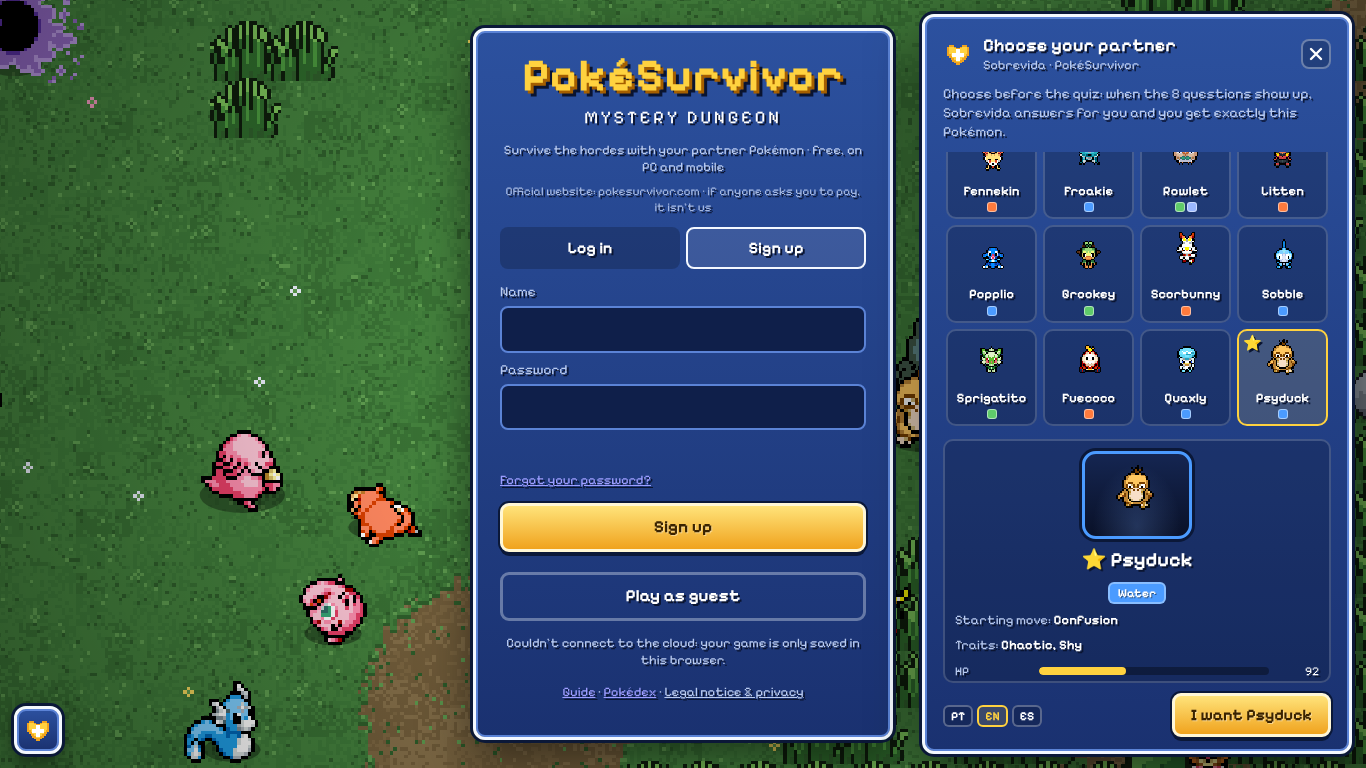
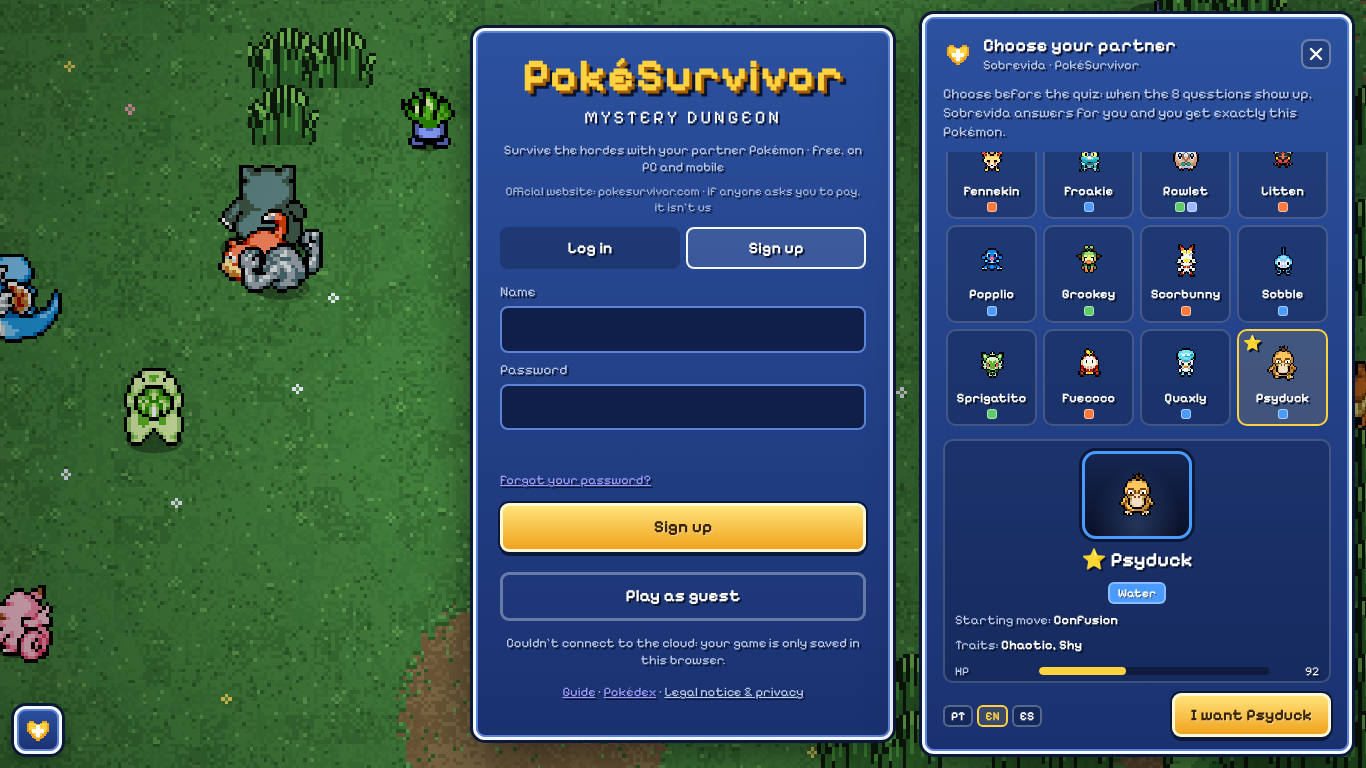
v0.2.3: farm fights bosses at the active move's range, keeps the partner until 100%, big sprites fit, farm bar top-right

diff --git a/extension/src/i18n.js b/extension/src/i18n.js
@@ -39,7 +39,7 @@ globalThis.SV_I18N = (() => {
         ['Escolha o parceiro antes', 'Na tela de criar conta (ou ao jogar como convidado), o menu da Sobrevida abre com os 29 parceiros. Clique no que você quer: o ⭐ marca o melhor.'],
         ['O teste se responde sozinho', 'Quando as 8 perguntas aparecerem, a Sobrevida clica as respostas que dão o seu Pokémon e confirma. Se o jogo sortear outro, ela usa o "Escolher outro".'],
         ['Botão Sobrevida', 'O botão de coração no canto abre o menu (ou Alt+S). Dá para arrastar. No rodapé: relatar bug, procurar atualização e idioma (PT · EN · ES).'],
-        ['Farm automático', 'No menu (coração), "Ligar farm" (ou Alt+F) faz ele jogar sozinho em loop: desvia, escolhe cartas, entra em fenda e, entre as partidas, recolhe missões, tira gacha, troca para o melhor parceiro que ainda não está 100% e compra as melhorias dele. Nada vai para o ranking. Deixe a aba à vista: escondida, o jogo para.'],
+        ['Farm automático', 'No menu (coração), "Ligar farm" (ou Alt+F) faz ele jogar sozinho em loop: desvia, escolhe cartas, entra em fenda e, entre as partidas, recolhe missões, tira gacha, compra as melhorias do parceiro até 100% e só então troca para o mais forte que você tem. Nada vai para o ranking. Deixe a aba à vista: escondida, o jogo para.'],
       ],
       newsTitle: (v) => `Novidades da v${v}`,
       updTitle: (v) => `Nova versão v${v}`, urgKick: 'URGENTE', urgTitle: (v) => `Atualize para a v${v}`,
@@ -60,10 +60,10 @@ globalThis.SV_I18N = (() => {
         userPaused: 'Você pausou o jogo: despause para o farm continuar.', menu: 'No menu, começando…', lv: 'Nv',
         guest: 'Jogando como convidado: nada é salvo.',
         task: { missions: 'Recolhendo prêmios de missões', gacha: 'Tirando gacha', partner: 'Escolhendo o parceiro', upgrades: 'Comprando melhorias', skins: 'Comprando skins de Halloween', save: 'Guardando na nuvem', play: 'Começando partida' },
-        mode: { kite: 'Puxando a horda', orbs: 'Pegando experiência', dodge: 'Desviando', chest: 'Abrindo baú', rift: 'Indo para a fenda', thiefGold: 'Perseguindo o Gholdengo', thief: 'Perseguindo o Meowth', lost: 'Resgatando o Pokémon perdido', escort: 'Levando o perdido', altar: 'Pegando poder do altar', spring: 'Curando no manancial', los: 'Buscando ângulo de tiro', hunt: 'Procurando inimigos', judgeDodge: 'Sentença: desviando', judgeLoop: 'Sentença: circulando', arenaDodge: 'Fenda: desviando', arenaBoss: 'Fenda: lutando com o lendário', idle: 'Andando', breakout: 'Rompendo o cerco' },
+        mode: { bossFight: 'Atacando o chefe', kite: 'Puxando a horda', orbs: 'Pegando experiência', dodge: 'Desviando', chest: 'Abrindo baú', rift: 'Indo para a fenda', thiefGold: 'Perseguindo o Gholdengo', thief: 'Perseguindo o Meowth', lost: 'Resgatando o Pokémon perdido', escort: 'Levando o perdido', altar: 'Pegando poder do altar', spring: 'Curando no manancial', los: 'Buscando ângulo de tiro', hunt: 'Procurando inimigos', judgeDodge: 'Sentença: desviando', judgeLoop: 'Sentença: circulando', arenaDodge: 'Fenda: desviando', arenaBoss: 'Fenda: lutando com o lendário', idle: 'Andando', breakout: 'Rompendo o cerco' },
         prog: (h, t, pc) => `Melhorias ${h}/${t} (${pc}%)`, col: (o, m) => `Coleção: ${o} Pokémon · ${m} em 100%`,
         sess: (r, c, ch, t, b) => `Sessão: ${r} partidas · +${c} moedas (${ch}/h) · +${t} tickets · melhor ${b}`, candy: (n) => `+${n} doces`,
-        opts: 'Opções', opt: { upgrades: 'Comprar melhorias do parceiro', gacha: 'Tirar gacha com os tickets', partner: 'Trocar de parceiro: o melhor que ainda não está 100%', missions: 'Recolher prêmios de missões', skins: 'Halloween: comprar as skins de bruxa' },
+        opts: 'Opções', opt: { upgrades: 'Comprar melhorias do parceiro', gacha: 'Tirar gacha com os tickets', partner: 'Trocar de parceiro só quando o atual chegar a 100% (vai para o mais forte)', missions: 'Recolher prêmios de missões', skins: 'Halloween: comprar as skins de bruxa' },
         rank: 'As partidas do farm não vão para o ranking.', spooky: 'Noite Espectral',
         aRun: (t, lv, c, tk) => `Partida: ${t} · Nv ${lv} · +${c} moedas · +${tk} tickets`, aMissions: (n) => `Recolheu ${n} prêmio(s) de missão`,
         aGacha: (g, n, nn, sh, nv) => `Gacha ${g} ×${n}: ${nn} novo(s)${sh ? ` · ${sh} shiny` : ''}${nv ? ` (${nv})` : ''}`,
@@ -103,7 +103,7 @@ globalThis.SV_I18N = (() => {
         ['Choose your partner first', 'On the create-account screen (or when you play as a guest), the Sobrevida menu opens with the 29 partners. Click the one you want: ⭐ marks the best.'],
         ['The quiz answers itself', 'When the 8 questions show up, Sobrevida clicks the answers that give your Pokémon and confirms. If the game rolls another one, it uses "Choose another".'],
         ['Sobrevida button', 'The heart button in the corner opens the menu (or Alt+S). You can drag it. In the footer: report a bug, check for updates and language (PT · EN · ES).'],
-        ['Auto farm', 'In the menu (heart), "Start farm" (or Alt+F) makes it play by itself in a loop: it dodges, picks cards, enters rifts and, between runs, claims missions, pulls gacha, switches to the best partner not at 100% yet and buys its upgrades. Nothing goes to the leaderboard. Keep the tab visible: hidden, the game stops.'],
+        ['Auto farm', 'In the menu (heart), "Start farm" (or Alt+F) makes it play by itself in a loop: it dodges, picks cards, enters rifts and, between runs, claims missions, pulls gacha, buys your partner\'s upgrades up to 100% and only then switches to the strongest one you own. Nothing goes to the leaderboard. Keep the tab visible: hidden, the game stops.'],
       ],
       newsTitle: (v) => `What's new in v${v}`,
       updTitle: (v) => `New version v${v}`, urgKick: 'URGENT', urgTitle: (v) => `Update to v${v}`,
@@ -124,10 +124,10 @@ globalThis.SV_I18N = (() => {
         userPaused: 'You paused the game: unpause so the farm keeps going.', menu: 'In the menu, starting…', lv: 'Lv',
         guest: 'Playing as a guest: nothing is saved.',
         task: { missions: 'Claiming mission rewards', gacha: 'Pulling gacha', partner: 'Choosing the partner', upgrades: 'Buying upgrades', skins: 'Buying Halloween skins', save: 'Saving to the cloud', play: 'Starting a run' },
-        mode: { kite: 'Kiting the horde', orbs: 'Picking up XP', dodge: 'Dodging', chest: 'Opening a chest', rift: 'Heading to the rift', thiefGold: 'Chasing Gholdengo', thief: 'Chasing Meowth', lost: 'Rescuing the lost Pokémon', escort: 'Escorting the lost Pokémon', altar: 'Taking the altar power', spring: 'Healing at the spring', los: 'Finding a clear shot', hunt: 'Looking for enemies', judgeDodge: 'Judgment: dodging', judgeLoop: 'Judgment: circling', arenaDodge: 'Rift: dodging', arenaBoss: 'Rift: fighting the legendary', idle: 'Walking', breakout: 'Breaking out' },
+        mode: { bossFight: 'Attacking the boss', kite: 'Kiting the horde', orbs: 'Picking up XP', dodge: 'Dodging', chest: 'Opening a chest', rift: 'Heading to the rift', thiefGold: 'Chasing Gholdengo', thief: 'Chasing Meowth', lost: 'Rescuing the lost Pokémon', escort: 'Escorting the lost Pokémon', altar: 'Taking the altar power', spring: 'Healing at the spring', los: 'Finding a clear shot', hunt: 'Looking for enemies', judgeDodge: 'Judgment: dodging', judgeLoop: 'Judgment: circling', arenaDodge: 'Rift: dodging', arenaBoss: 'Rift: fighting the legendary', idle: 'Walking', breakout: 'Breaking out' },
         prog: (h, t, pc) => `Upgrades ${h}/${t} (${pc}%)`, col: (o, m) => `Collection: ${o} Pokémon · ${m} at 100%`,
         sess: (r, c, ch, t, b) => `Session: ${r} runs · +${c} coins (${ch}/h) · +${t} tickets · best ${b}`, candy: (n) => `+${n} candy`,
-        opts: 'Options', opt: { upgrades: 'Buy the partner\'s upgrades', gacha: 'Pull gacha with the tickets', partner: 'Switch partner: the best one not at 100% yet', missions: 'Claim mission rewards', skins: 'Halloween: buy the witch skins' },
+        opts: 'Options', opt: { upgrades: 'Buy the partner\'s upgrades', gacha: 'Pull gacha with the tickets', partner: 'Switch partner only when the current one hits 100% (to the strongest)', missions: 'Claim mission rewards', skins: 'Halloween: buy the witch skins' },
         rank: 'Farm runs don\'t go to the leaderboard.', spooky: 'Spectral Night',
         aRun: (t, lv, c, tk) => `Run: ${t} · Lv ${lv} · +${c} coins · +${tk} tickets`, aMissions: (n) => `Claimed ${n} mission reward(s)`,
         aGacha: (g, n, nn, sh, nv) => `Gacha ${g} ×${n}: ${nn} new${sh ? ` · ${sh} shiny` : ''}${nv ? ` (${nv})` : ''}`,
@@ -167,7 +167,7 @@ globalThis.SV_I18N = (() => {
         ['Elige a tu compañero antes', 'En la pantalla de crear cuenta (o al jugar como invitado), el menú de Sobrevida se abre con los 29 compañeros. Haz clic en el que quieras: ⭐ marca el mejor.'],
         ['El test se responde solo', 'Cuando salgan las 8 preguntas, Sobrevida pulsa las respuestas que dan tu Pokémon y confirma. Si el juego sortea otro, usa "Elegir otro".'],
         ['Botón Sobrevida', 'El botón del corazón en la esquina abre el menú (o Alt+S). Se puede arrastrar. Abajo: reportar un fallo, buscar actualización e idioma (PT · EN · ES).'],
-        ['Farm automático', 'En el menú (corazón), "Activar farm" (o Alt+F) hace que juegue solo en bucle: esquiva, elige cartas, entra en grietas y, entre partidas, recoge misiones, tira el gacha, cambia al mejor compañero que aún no está al 100% y compra sus mejoras. Nada va al ranking. Deja la pestaña a la vista: oculta, el juego se para.'],
+        ['Farm automático', 'En el menú (corazón), "Activar farm" (o Alt+F) hace que juegue solo en bucle: esquiva, elige cartas, entra en grietas y, entre partidas, recoge misiones, tira el gacha, compra las mejoras del compañero hasta el 100% y solo entonces cambia al más fuerte que tengas. Nada va al ranking. Deja la pestaña a la vista: oculta, el juego se para.'],
       ],
       newsTitle: (v) => `Novedades de la v${v}`,
       updTitle: (v) => `Nueva versión v${v}`, urgKick: 'URGENTE', urgTitle: (v) => `Actualiza a la v${v}`,
@@ -188,10 +188,10 @@ globalThis.SV_I18N = (() => {
         userPaused: 'Pausaste el juego: quita la pausa para que el farm siga.', menu: 'En el menú, empezando…', lv: 'Nv',
         guest: 'Jugando como invitado: no se guarda nada.',
         task: { missions: 'Recogiendo premios de misiones', gacha: 'Tirando el gacha', partner: 'Eligiendo compañero', upgrades: 'Comprando mejoras', skins: 'Comprando skins de Halloween', save: 'Guardando en la nube', play: 'Empezando partida' },
-        mode: { kite: 'Arrastrando la horda', orbs: 'Recogiendo experiencia', dodge: 'Esquivando', chest: 'Abriendo cofre', rift: 'Yendo a la grieta', thiefGold: 'Persiguiendo a Gholdengo', thief: 'Persiguiendo a Meowth', lost: 'Rescatando al Pokémon perdido', escort: 'Llevando al perdido', altar: 'Tomando el poder del altar', spring: 'Curándose en el manantial', los: 'Buscando ángulo de tiro', hunt: 'Buscando enemigos', judgeDodge: 'Sentencia: esquivando', judgeLoop: 'Sentencia: rodeando', arenaDodge: 'Grieta: esquivando', arenaBoss: 'Grieta: luchando con el legendario', idle: 'Caminando', breakout: 'Rompiendo el cerco' },
+        mode: { bossFight: 'Atacando al jefe', kite: 'Arrastrando la horda', orbs: 'Recogiendo experiencia', dodge: 'Esquivando', chest: 'Abriendo cofre', rift: 'Yendo a la grieta', thiefGold: 'Persiguiendo a Gholdengo', thief: 'Persiguiendo a Meowth', lost: 'Rescatando al Pokémon perdido', escort: 'Llevando al perdido', altar: 'Tomando el poder del altar', spring: 'Curándose en el manantial', los: 'Buscando ángulo de tiro', hunt: 'Buscando enemigos', judgeDodge: 'Sentencia: esquivando', judgeLoop: 'Sentencia: rodeando', arenaDodge: 'Grieta: esquivando', arenaBoss: 'Grieta: luchando con el legendario', idle: 'Caminando', breakout: 'Rompiendo el cerco' },
         prog: (h, t, pc) => `Mejoras ${h}/${t} (${pc}%)`, col: (o, m) => `Colección: ${o} Pokémon · ${m} al 100%`,
         sess: (r, c, ch, t, b) => `Sesión: ${r} partidas · +${c} monedas (${ch}/h) · +${t} tickets · mejor ${b}`, candy: (n) => `+${n} caramelos`,
-        opts: 'Opciones', opt: { upgrades: 'Comprar mejoras del compañero', gacha: 'Tirar el gacha con los tickets', partner: 'Cambiar de compañero: el mejor que aún no está al 100%', missions: 'Recoger premios de misiones', skins: 'Halloween: comprar las skins de bruja' },
+        opts: 'Opciones', opt: { upgrades: 'Comprar mejoras del compañero', gacha: 'Tirar el gacha con los tickets', partner: 'Cambiar de compañero solo cuando el actual llegue al 100% (al más fuerte)', missions: 'Recoger premios de misiones', skins: 'Halloween: comprar las skins de bruja' },
         rank: 'Las partidas del farm no van al ranking.', spooky: 'Noche Espectral',
         aRun: (t, lv, c, tk) => `Partida: ${t} · Nv ${lv} · +${c} monedas · +${tk} tickets`, aMissions: (n) => `Recogió ${n} premio(s) de misión`,
         aGacha: (g, n, nn, sh, nv) => `Gacha ${g} ×${n}: ${nn} nuevo(s)${sh ? ` · ${sh} shiny` : ''}${nv ? ` (${nv})` : ''}`,

diff --git a/extension/src/piloto.js b/extension/src/piloto.js
@@ -353,6 +353,9 @@
   function alvo(ns) {
     const s = ns.DB.save;
     const own = Object.keys(s.owned || {}).map(Number).filter((d) => ns.DEX_BY[d]);
+    // 0.2.2 (pedido do André): termina um Pokémon antes de ir para outro. O parceiro atual (escolhido pelo
+    // farm ou por você no jogo) fica até chegar a 100%; só então vai para o mais forte que ainda não está 100%.
+    if (s.partner && s.owned && s.owned[s.partner] && !progresso(ns, s.partner).maxed) return s.partner;
     own.sort((a, b) => power(ns, b) - power(ns, a));
     return own.find((d) => !progresso(ns, d).maxed) || own[0] || s.partner;
   }
@@ -591,6 +594,32 @@
     return i < 0 ? 99 : i;
   }
 
+  // Sobrevida 0.2.2: alcance de cada golpe, igual ao reach() de systems/combat.js do jogo; os que não miram
+  // (nova, aura, órbita, rastro, mina) pela área que cobrem. Só o grupo ATIVO ataca.
+  function moveReach(m) {
+    if (!m || m.kind === 'buff') return 0;
+    const r = m.radius || 0, fly = (m.speed || 0) * (m.life || 0);
+    switch (m.kind) {
+      case 'melee': return r + 30;
+      case 'beam': return r + 20;
+      case 'boomerang': return r + 40;
+      case 'chain': return 280;
+      case 'meteor': return 340;
+      case 'dash': return r + 60;
+      case 'cone': return fly + 30;
+      case 'spin': case 'shove': case 'charge': return r + 20;
+      case 'quake': return (m.count | 0) * 34 + r;
+      case 'vortex': case 'stun': case 'turret': return 300;
+      case 'projectile': case 'homing': case 'bounce': return Math.min(520, fly || 520);
+      case 'nova': return fly || 200;
+      case 'aura': return r || 60;
+      case 'orbit': return r + (m.size || 8);
+      case 'mine': case 'trail': return 40;
+      default: return 200;
+    }
+  }
+  function groupReach(g) { let r = 0; for (const m of g || []) r = Math.max(r, moveReach(m)); return r; }
+
   function groupScore(g, prof) {
     let dmg = 0, buff = 0, rank = 0;
     for (const m of g) {
@@ -608,8 +637,10 @@
     if (now - S.lastSlotCheck > 600 && p.slots.length > 1 && !p.hasItem?.('choiceband')) {
       S.lastSlotCheck = now;
       const prof = profileOf(ns);
-      let best = p.active, bs = groupScore(p.slots[p.active] || [], prof);
-      p.slots.forEach((g, i) => { const s = groupScore(g, prof); if (s > bs + 0.5) { bs = s; best = i; } });
+      const bossFight = !!((ns.Rift && ns.Rift.inArena) || (ns.EnemyMgr.bossAlive && ns.EnemyMgr.bossAlive()));
+      const sc = g => { const s0 = groupScore(g, prof); return s0 && bossFight ? s0 * (groupReach(g) >= 200 ? 1.25 : 1) : s0; };
+      let best = p.active, bs = sc(p.slots[p.active] || []);
+      p.slots.forEach((g, i) => { const s = sc(g); if (s > bs + 0.5) { bs = s; best = i; } });
       if (best !== p.active) p.setActive(best);
     }
     if (cfg.orbs && ns.Orbs && p.orbs && now - S.lastOrb > 1500) {
@@ -898,6 +929,22 @@
     const hitFrac = (dmg, pure) => Math.min(1, (dmg || 0) * (pure ? 1 : red) / p.maxHp);
     const hazFrac = h => Math.min(1, (h.pct ? Math.max(h.dmg || 0, p.maxHp * h.pct) : (h.dmg || 0)) * (h.pure ? 1 : red) / p.maxHp);
     const DMG_W = hpPct < 0.6 ? 160 : 90, TOUCH_W = hpPct < 0.35 ? 160 : hpPct < 0.6 ? 100 : 30;
+    // 0.2.2: lutar com o chefe em vez de só fugir. O alcance do golpe ativo decide a distância: de perto
+    // (mordida, investida, aura) encosta enquanto a vida aguenta; de longe fica a ~70% do alcance (até 280 px,
+    // dentro dos 330 px em que o jogo prioriza o chefe). Vida baixa: volta a desviar.
+    const myReach = groupReach(p.slots && p.slots[p.active]);
+    const short = myReach < 150;
+    let engaged = null, engageF = 1;
+    if (!judging) {
+      const riftBoss = ns.Rift && ns.Rift.inArena && ns.Rift.arena && ns.Rift.arena.bossId && ns.EnemyMgr.get && ns.EnemyMgr.get(ns.Rift.arena.bossId);
+      const cand = (riftBoss && !riftBoss.dead) ? riftBoss : near.find(e => e.boss && !e.dead && Math.hypot(e.x - p.x, e.y - p.y) < 450);
+      const keep = S.engaged === (cand && cand.id) ? 0.05 : 0;   // histerese: não fica liga/desliga
+      // perder na fenda não acaba a partida (volta ao mapa sem prêmio): lá dá para arriscar mais que com chefe do mapa
+      const lim = riftBoss && cand === riftBoss ? (short ? 0.25 : 0.2) : (short ? 0.45 : 0.3);
+      if (cand && myReach > 0 && hpPct > lim - keep) { engaged = cand; engageF = short ? 0.3 : 0.6; }
+    }
+    S.engaged = engaged ? engaged.id : null;
+    S.engageD = engaged ? (short ? Math.max(28, myReach * 0.6) : Math.min(280, myReach * 0.7)) : 0;
     const danger = (x, y, tAhead) => {
       let c = 0, big = 0, worst = 0, haz = 0;
       for (const e of near) {
@@ -905,10 +952,11 @@
         const d = Math.hypot(x - e.x, y - e.y) - (e.r || 10) - p.r - spd * tAhead * 0.8;
         const reach = (e.arceus ? 140 : e.boss ? 90 : 35) + 45 * fast;
         const w = e.arceus ? 8 : (e.boss ? 4 : 1) * Math.min(3, Math.max(0.5, (e.dmg || 10) / (p.maxHp * 0.12)));
-        const v = w * Math.exp(-Math.max(d, -20) / reach);
+        const bf = e === engaged ? engageF : 1;          // 0.2.2: chefe que estamos enfrentando assusta menos
+        const v = w * bf * Math.exp(-Math.max(d, -20) / reach);
         if (e.boss || e.arceus) big += v; else c += v;
         const touch = Math.exp(-Math.max(0, d) / 18);
-        worst = Math.max(worst, touch * (e.arceus ? 0.4 : hitFrac(e.dmg, false)));
+        worst = Math.max(worst, touch * bf * (e.arceus ? 0.4 : hitFrac(e.dmg, false)));
       }
       for (const s of shots) {
         const sx = s.x + (s.vx || 0) * tAhead, sy = s.y + (s.vy || 0) * tAhead;
@@ -972,7 +1020,15 @@
       let px0 = p.x - ar.x, py0 = p.y - ar.y; const pr = Math.hypot(px0, py0) || 1;
       const pa = Math.atan2(py0, px0);
       let kx = 0, ky = 0, w = 1.8;
-      if (boss && !boss.dead) {
+      if (boss && !boss.dead && engaged === boss) {
+        const ang = Math.atan2(p.y - boss.y, p.x - boss.x) + S.spin * (short ? 0.25 : 0.4);
+        const R0 = S.engageD;
+        let tx = boss.x + Math.cos(ang) * R0, ty = boss.y + Math.sin(ang) * R0;
+        const tr = Math.hypot(tx - ar.x, ty - ar.y), lim = edge * 0.95;   // não encostar na parede da arena
+        if (tr > lim) { tx = ar.x + (tx - ar.x) * lim / tr; ty = ar.y + (ty - ar.y) * lim / tr; S.spin *= -1; }
+        kx = tx - p.x; ky = ty - p.y;
+        w = Math.hypot(kx, ky) > 50 ? 4 : 2.2;
+      } else if (boss && !boss.dead) {
         const ba = Math.atan2(boss.y - ar.y, boss.x - ar.x);
         let delta = pa - ba; while (delta > Math.PI) delta -= 2 * Math.PI; while (delta < -Math.PI) delta += 2 * Math.PI;
         if (Math.abs(delta) < Math.PI * 0.85) S.spin = delta >= 0 ? 1 : -1;
@@ -991,6 +1047,12 @@
       }                                                    
       const kl = Math.hypot(kx, ky);
       if (kl > 0.01) kite = { x: kx / kl, y: ky / kl, w };
+    } else if (engaged && !(target && (target.hold || target.chase || target.escort))) {
+      const ang = Math.atan2(p.y - engaged.y, p.x - engaged.x) + S.spin * (short ? 0.25 : 0.4);
+      let kx = engaged.x + Math.cos(ang) * S.engageD - p.x, ky = engaged.y + Math.sin(ang) * S.engageD - p.y;
+      const kl = Math.hypot(kx, ky) || 1;
+      kite = { x: kx / kl, y: ky / kl, w: kl > 50 ? 3.5 : 2 };
+      if (pathLen(kx / kl, ky / kl, 90) < 40) { S.spinBlockT += dt; if (S.spinBlockT > 0.6) { S.spin *= -1; S.spinBlockT = 0; } } else S.spinBlockT = 0;
     } else if ((!target || here > 2) && !(target && target.hold) && !(target && target.chase && here < 4)) {
       if (hadTarget) S.loopC = null;  
       let R = 380, c = S.loopC;
@@ -1044,7 +1106,7 @@
     let bi = -1;
     for (let i = 0; i < 16; i++) if (sm[i] < Infinity && (bi < 0 || sm[i] < sm[bi])) bi = i;
     if (!target) S.wanderA += dt * 0.35;
-    S.mode = judging ? (here > 2 ? 'judgeDodge' : 'judgeLoop') : arena ? (here > 2 ? 'arenaDodge' : 'arenaBoss') : here > 2 ? 'dodge' : target && (target.chase || target.hold) ? target.mode : kite ? 'kite' : target ? target.mode : 'idle';
+    S.mode = judging ? (here > 2 ? 'judgeDodge' : 'judgeLoop') : engaged ? (here > 2 + (short ? 4 : 1) ? 'arenaDodge' : 'bossFight') : arena ? (here > 2 ? 'arenaDodge' : 'arenaBoss') : here > 2 ? 'dodge' : target && (target.chase || target.hold) ? target.mode : kite ? 'kite' : target ? target.mode : 'idle';
     const escape = () => {
       let bd = null, bs = -Infinity;
       for (const [dx, dy] of DIRS) {

diff --git a/extension/src/content.js b/extension/src/content.js
@@ -122,7 +122,7 @@
   :host { all: initial; }
   * { box-sizing: border-box; }
   .w { position: fixed; inset: 0; pointer-events: none; z-index: 2147483000; font: 16px/1.35 'Pixelify', 'Segoe UI', system-ui, sans-serif;
-    color: #fff; -webkit-font-smoothing: none; --box1: #2c519f; --box2: #1a3170; --edge: #f4f8ff; --edge-in: #5b83d6; --edge-out: #0b1838;
+    color: #fff; -webkit-font-smoothing: none; font-variant-ligatures: none; font-feature-settings: 'liga' 0, 'clig' 0; --box1: #2c519f; --box2: #1a3170; --edge: #f4f8ff; --edge-in: #5b83d6; --edge-out: #0b1838;
     --gold: #ffd23f; --gold2: #f0a31e; --muted: #b9cbf0; --shadow: #0a1430; --red: #ff5f6d; --green: #5fe08a; }
   .w > * { pointer-events: auto; }
   [hidden] { display: none !important; }
@@ -166,7 +166,8 @@
   .farm .acts { font-size: 12px; color: #dbe6ff; display: flex; flex-direction: column; gap: 2px; text-align: left; }
   .farm details summary { cursor: pointer; font-size: 13px; color: var(--muted); }
   .farm details .opts { display: flex; flex-direction: column; gap: 6px; padding-top: 6px; }
-  .pill { position: fixed; left: 14px; bottom: 14px; display: flex; align-items: center; gap: 8px; padding: 6px 8px 6px 10px; max-width: calc(100vw - 28px); font-size: 13px; cursor: pointer; }
+  /* canto superior direito, abaixo do quadro de clima do jogo (y 14–40): ali não fica nada da partida */
+  .pill { position: fixed; right: 14px; top: 48px; display: flex; align-items: center; gap: 8px; padding: 6px 8px 6px 10px; max-width: calc(100vw - 28px); font-size: 13px; cursor: pointer; }
   .pill svg { width: 22px; height: 22px; flex: none; }
   .pill span { white-space: nowrap; overflow: hidden; text-overflow: ellipsis; }
   .pill .btn { padding: 2px 8px; font-size: 13px; }
@@ -298,6 +299,22 @@
   const canvases = new Set();
   const metaExtra = {}; // folha Idle de Pokémon fora dos 29 iniciais (o piloto manda a do parceiro)
   const metaDe = (dex) => { const s = byDex(dex); return s ? s.idle : metaExtra[dex] || null; };
+  // área com pixels de verdade na folha (união de todos os quadros da linha de baixo): os quadros dos Pokémon
+  // grandes têm muita borda vazia; recortando, o desenho cabe no quadro sem ficar minúsculo
+  const caixas = {};
+  function caixa(dex, im, fw, fh, n) {
+    if (caixas[dex]) return caixas[dex];
+    let b = { x: 0, y: 0, w: fw, h: fh };
+    try {
+      const k = document.createElement('canvas'); k.width = fw * n; k.height = fh;
+      const g = k.getContext('2d'); g.drawImage(im, 0, 0, fw * n, fh, 0, 0, fw * n, fh);
+      const d = g.getImageData(0, 0, fw * n, fh).data;
+      let x0 = fw, y0 = fh, x1 = -1, y1 = -1;
+      for (let y = 0; y < fh; y++) for (let x = 0; x < fw * n; x++) if (d[(y * fw * n + x) * 4 + 3] > 8) { const lx = x % fw; if (lx < x0) x0 = lx; if (lx > x1) x1 = lx; if (y < y0) y0 = y; if (y > y1) y1 = y; }
+      if (x1 >= x0 && y1 >= y0) b = { x: x0, y: y0, w: x1 - x0 + 1, h: y1 - y0 + 1 };
+    } catch (_) {}
+    return (caixas[dex] = b);
+  }
   function spriteCanvas(dex, w, h, scale) {
     const c = document.createElement('canvas');
     c.width = w; c.height = h; c._dex = dex; c._scale = scale; c._t0 = performance.now() + Math.random() * 400;
@@ -321,8 +338,11 @@
       const ctx = c.getContext('2d');
       ctx.imageSmoothingEnabled = false;
       ctx.clearRect(0, 0, c.width, c.height);
-      const sc = c._scale, dw = fw * sc, dh = fh * sc;
-      ctx.drawImage(im, f * fw, 0, fw, fh, Math.round((c.width - dw) / 2), Math.round((c.height - dh) / 2 + 2), dw, dh);
+      // cabe no quadro: Pokémon grandes (Yveltal 80×96) encolhem; escala inteira quando dá, para o pixel art não borrar
+      const b = caixa(c._dex, im, fw, fh, n);
+      const fit = Math.min((c.width - 4) / b.w, (c.height - 4) / b.h);
+      const sc = c._scale <= fit ? c._scale : fit >= 1 ? Math.floor(fit) : fit, dw = Math.round(b.w * sc), dh = Math.round(b.h * sc);
+      ctx.drawImage(im, f * fw + b.x, b.y, b.w, b.h, Math.round((c.width - dw) / 2), Math.round((c.height - dh) / 2), dw, dh);
     }
     if (any) raf = requestAnimationFrame(desenhar);
   }

diff --git a/extension/src/novidades.js b/extension/src/novidades.js
@@ -2,6 +2,15 @@
 // Frases curtas, do ponto de vista de quem usa. Aparece uma vez, na primeira abertura depois da atualização.
 globalThis.SV_NOVIDADES = {
   pt: {
+    '0.2.3': [
+      "Na partida, a barrinha do farm agora fica no canto superior direito, onde não cobre nada do jogo.",
+    ],
+    '0.2.2': [
+      "O farm agora luta com o chefe da fenda e com os chefes do mapa: chega na distância do ataque que você está usando (encosta se for de perto) em vez de só fugir. Com pouca vida, volta a desviar.",
+      "Na luta com chefe, o farm prefere o ataque que alcança de longe, quando ele é tão bom quanto o outro.",
+      "Parceiro: o farm termina as melhorias do Pokémon atual até 100% e só depois troca para o mais forte que você tem. Se você escolher outro no jogo, ele respeita.",
+      "Pokémon grandes (como o Yveltal) aparecem inteiros no painel.",
+    ],
     '0.2.1': [
       'Se a Sobrevida for atualizada com o jogo aberto, o painel avisa e mostra o botão "Recarregar agora" (antes o farm ficava parado esperando).',
       'Só uma aba joga por vez: com duas abas do PokéSurvivor abertas, a outra mostra que o farm está na primeira.',
@@ -19,6 +28,15 @@ globalThis.SV_NOVIDADES = {
     ],
   },
   en: {
+    '0.2.3': [
+      "During a run, the farm bar now sits in the top-right corner, where it doesn't cover anything in the game.",
+    ],
+    '0.2.2': [
+      "The farm now fights the rift boss and map bosses: it moves to the range of the attack you're using (up close for short attacks) instead of only running. Low on HP, it goes back to dodging.",
+      "In boss fights the farm prefers the long-range attack when it's as good as the other one.",
+      "Partner: the farm finishes the current Pokémon's upgrades to 100% and only then switches to the strongest one you own. If you pick another one in the game, it keeps it.",
+      "Big Pokémon (like Yveltal) show up whole in the panel.",
+    ],
     '0.2.1': [
       'If Sobrevida is updated with the game open, the panel tells you and shows a "Reload now" button (before, the farm just sat waiting).',
       'Only one tab plays at a time: with two PokéSurvivor tabs open, the other one shows the farm is running in the first.',
@@ -36,6 +54,15 @@ globalThis.SV_NOVIDADES = {
     ],
   },
   es: {
+    '0.2.3': [
+      "En la partida, la barrita del farm ahora va en la esquina superior derecha, donde no tapa nada del juego.",
+    ],
+    '0.2.2': [
+      "El farm ahora pelea con el jefe de la grieta y los jefes del mapa: se pone a la distancia del ataque que usas (pegado si es de cerca) en vez de solo huir. Con poca vida, vuelve a esquivar.",
+      "En la pelea con jefes, el farm prefiere el ataque de largo alcance cuando es tan bueno como el otro.",
+      "Compañero: el farm termina las mejoras del Pokémon actual hasta el 100% y solo después cambia al más fuerte que tengas. Si eliges otro en el juego, lo respeta.",
+      "Los Pokémon grandes (como Yveltal) se ven enteros en el panel.",
+    ],
     '0.2.1': [
       'Si Sobrevida se actualiza con el juego abierto, el panel avisa y muestra el botón "Recargar ahora" (antes el farm se quedaba esperando).',
       'Solo una pestaña juega a la vez: con dos pestañas de PokéSurvivor abiertas, la otra muestra que el farm está en la primera.',

diff --git a/README.md b/README.md
@@ -9,7 +9,7 @@ Choose your partner Pokémon before the 8-question personality quiz and get exac
 
 ![Manifest V3](https://img.shields.io/badge/Manifest-V3-4285F4?logo=googlechrome&logoColor=white)
 ![Firefox](https://img.shields.io/badge/Firefox-140%2B-FF7139?logo=firefoxbrowser&logoColor=white)
-![Version](https://img.shields.io/badge/version-0.2.1-f4b400)
+![Version](https://img.shields.io/badge/version-0.2.3-f4b400)
 ![License](https://img.shields.io/badge/license-MIT-green)
 
 **Works on:** Chrome · Edge · Brave · Opera GX · Firefox 140+
@@ -44,9 +44,9 @@ Open the heart menu and press **Start farm** (or **Alt+F** anywhere in the game)
   4. buys that partner's upgrades, best value first, keeping a reserve of 10% of your coins (at most 1,500);
   5. saves to the cloud and starts the next run.
 - **Never on the leaderboard.** Farm runs are blocked from the game's leaderboard twice: the game's submit is skipped, and the request that seals a run on PokéSurvivor's server is blocked by the browser before it leaves.
-- **A panel that says what it's doing:** the current task or move, level and HP, your partner's upgrade progress, coins and tickets per hour, and the last things it did. During a run a small pill in the corner shows the same with a **Stop** button. Every step can be turned off under *Options*.
+- **A panel that says what it's doing:** the current task or move, level and HP, your partner's upgrade progress, coins and tickets per hour, and the last things it did. During a run a small bar in the top-right corner (out of the way of the game) shows the same with a **Stop** button. Every step can be turned off under *Options*.
 
-<img src="docs/sobrevida-farm-run.png" width="420" alt="A run in progress with Slurpuff in a forest and the Sobrevida pill in the bottom-left corner: Farm, Picking up XP, 0:46, Lv 5, 147/147 HP and a Stop button">&nbsp;&nbsp;<img src="docs/sobrevida-farm-panel.png" width="420" alt="The Sobrevida panel open during a run: Stop, Picking up XP at 0:47 level 5, partner Slurpuff with Upgrades 35/92, collection 27 Pokémon, and the log: bought 35 upgrades, partner Psyduck to Slurpuff, Gacha Kalos x30 with 26 new">
+<img src="docs/sobrevida-farm-run.png" width="420" alt="A run in progress in a forest with the Sobrevida bar in the top-right corner: Farm, Picking up XP, 0:46, Lv 5, 147/147 HP and a Stop button">&nbsp;&nbsp;<img src="docs/sobrevida-farm-panel.png" width="420" alt="The Sobrevida panel open under the bar during a run: Stop, Picking up XP at 0:47 level 5, partner Slurpuff with Upgrades 35/92, collection 27 Pokémon, and the log: bought 35 upgrades, partner Psyduck to Slurpuff, Gacha Kalos x30 with 26 new">
 
 **Keep the game tab visible.** Browsers pause a game in a hidden tab and slow it down a lot in a minimized or covered window, so the farm can't play there. The panel tells you when that happens. Only one PokéSurvivor tab farms at a time; a second tab says the farm is running in the first one.
 
